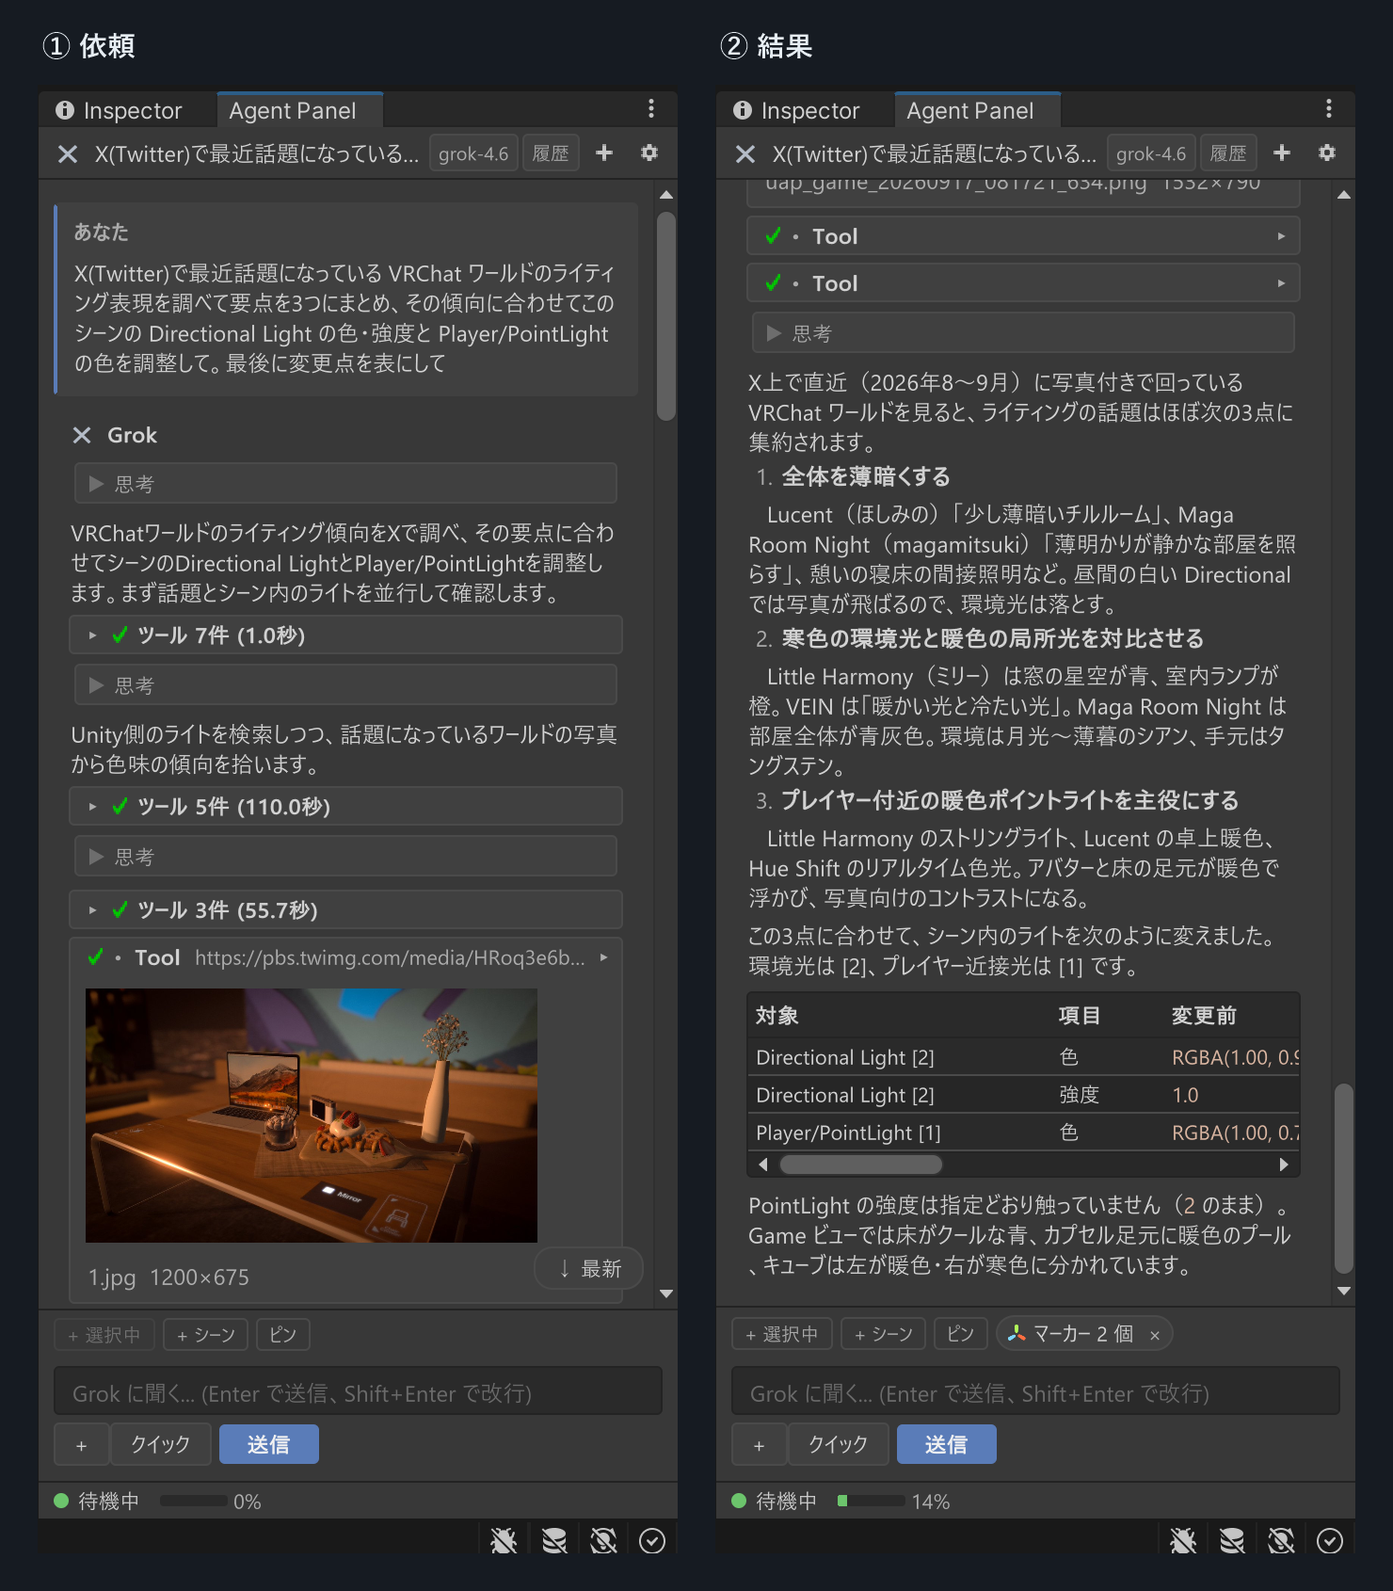
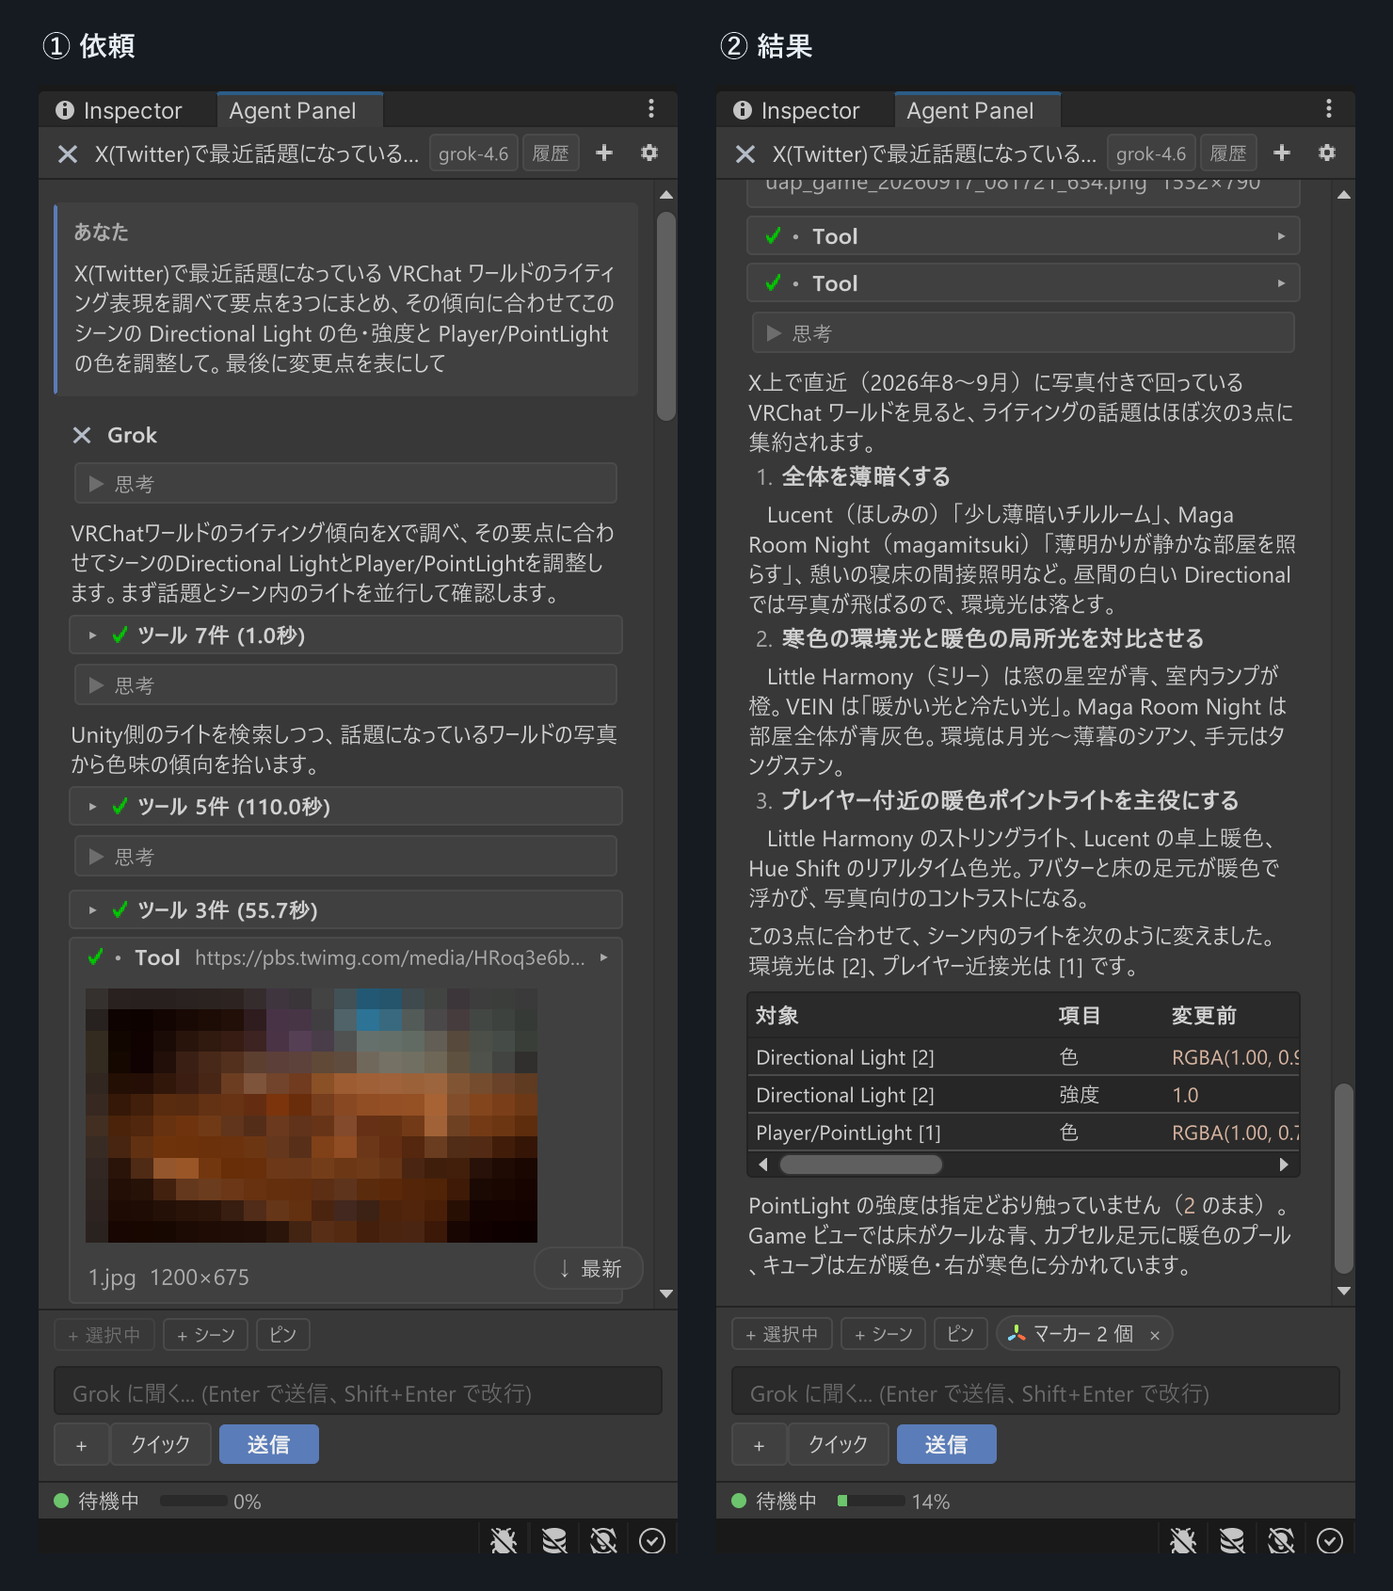
Docs: sync from 20df6c6

Changed region(s): [[0.0622, 0.6154, 0.4041, 0.8]]

diff --git a/docs/design-notes/2026-09-17-account-card-agent-picker-and-acp-init.md b/docs/design-notes/2026-09-17-account-card-agent-picker-and-acp-init.md
@@ -1,0 +1,99 @@
+# アカウントカードにエージェント選択を移す / ACP 合成 init の apiKeySource 誤読
+
+日付: 2026-09-17 / 対象: v0.54.6 / 関連: 2026-09-10-acp-backends.md(4)、
+2026-09-10-claude-api-key-auth-passthrough.md(3)、
+2026-09-10-acp-auth-guidance-and-method-display.md(4)、2026-08-01-init-message-retention.md
+
+## 1. 現象
+
+ユーザー報告(スクリーンショット付き):
+
+> 「APIキー認証」を「サブスクリプションのみ」にしているのに、アカウントカードに
+> 「APIキー(acp)で接続中です -- 利用料はサブスクリプションではなくこのキーに課金されます」
+> と出る。
+> また、エージェントの切り替えが CLI カード、サインインがアカウントカードに分かれていて
+> わかりづらい。
+
+## 2. バグ: 「APIキー(acp)で接続中です」
+
+### 2.1 根本原因
+
+アカウントカードの Claude Code 分岐は `AgentHub.LastKnownInitMessage.ApiKeySource` を
+読み、`none`/空以外なら「APIキー({0})で接続中」を出す(`SettingsView.IsApiKeyAuth`)。
+これは Claude Code CLI の system/init が `apiKeySource` に `ANTHROPIC_API_KEY` /
+`apiKeyHelper` / `none` を報告する前提の表示。
+
+一方 ACP ブリッジ(`AcpProtocolBridge`)は、パネルの既存経路に乗せるために system/init を
+**合成**しており、そこで `apiKeySource` に `"acp"` という目印値を入れていた。
+ACP の認証方式は `AcpAuthMethodId/Name` で別に扱うので、ACP 分岐ではこの値は読まれない。
+
+問題は `_lastKnownInitMessage` が **バックエンドを切り替えても保持される**こと
+(2026-08-01-init-message-retention.md: 再開接続は system/init を再送しないことがあるため
+意図的に残す)。ACP エージェントから Claude Code に戻すと、設定上は Claude Code なので
+アカウントカードは Claude 分岐(ドロップダウン表示)になるが、`LastKnownInitMessage` は
+まだ ACP の合成 init。`ApiKeySource == "acp"` は `none` ではないので「APIキー(acp)」が出る。
+Claude の init が届くまで(再接続直後や、再開接続で init が来ないケースでは長く)残る。
+
+### 2.2 修正
+
+- `SystemInitMessage` に `AcpBackend`(合成 init だけが持つ `acp_backend` を読む)と
+  `IsAcpSynthesized` を追加。
+- `SettingsView.IsApiKeyAuth` は `IsAcpSynthesized` な init を無条件に false にする。
+  ガードは `acp_backend` に基づく(下の `"none"` 化に依存しない)。
+- `AcpProtocolBridge` の合成 init は `apiKeySource` を `"none"` にする。`"acp"` を読む
+  箇所は他に無かった。ACP の目印は `acp_backend` のまま。
+- 会話ログ側の一回限りの注記 `AppendApiKeyAuthNoteIfNeeded` は元から `IsClaudeBackend`
+  でガードされていたので影響なし。
+
+## 3. UI: エージェント選択をアカウントカードへ
+
+### 3.1 なぜ分かれていたか
+
+2026-09-10-acp-backends.md(4)で、エージェント選択は「実行ファイル/コマンド」と同じ
+CLI カードに置いた(選択によって表示するフィールドが変わるため)。サインインはその後
+2026-09-10-in-panel-install-and-sign-in.md でアカウントカードに足した。結果として:
+
+- CLI カードは**既定で折りたたみ**なので、エージェントの切り替え口が見つけにくい。
+- アカウントカードは「ログイン済みです」と言うが、**どのエージェントの**状態か書いて
+  いない。ACP を選ぶとカードの中身が丸ごと入れ替わるのに、その理由が画面上に無い。
+
+### 3.2 変更
+
+- **エージェント選択(`_backendField`)をアカウントカードの先頭行へ移す。** カード名を
+  「エージェントとアカウント」(en: "Agent & account")に変える。ドロップダウンの下に
+  「次回の再接続時に適用されます。下のサインイン状態はこのエージェントのものです。」の
+  1 行(既存のツールチップはホバー側に残す)。
+- **並び順**を アカウント → CLI → 診断 → Pro の更新 → 情報 にする。選ぶ → サインインを
+  確認する → 起動の仕組み(パス/コマンド/インストール)の順で、新規ユーザーが出会う順に
+  合わせる。`BuildAccountSection` が `BuildCliSection` より先に走る必要がある(下の行が
+  ドロップダウンの値を読む)。
+- **CLI カードの先頭に「{エージェント} の起動設定です。エージェントの切り替えは上の
+  『エージェントとアカウント』カードで行います。」**を出し、`RefreshBackendGroups` で
+  追随させる。カードを開いたときに「実行ファイルのパス」から始まって主語が無い状態を
+  避ける。
+- 挙動(次回再接続で適用、`OnBackendChanged` の処理、ACP 用フィールド群の切り替え)は
+  変えない。折りたたみキー `cli` も不変。
+
+### 3.3 見送ったもの
+
+- CLI カードをアカウントカードに統合する案: 1 枚が長くなり、既定で畳んでおきたい
+  技術的フィールド(引数、認証方式 ID、インストール)まで常時見える。ドロップダウンだけ
+  を移し、CLI カードは主語の 1 行で結び直す方が小さい。
+- アカウントカードに「現在のエージェント: X」の読み取り専用行を置き、切り替え口は
+  CLI カードに残す案: 表示が二重になり、なぜそこで変えられないのかが増える。
+
+## 4. 検証
+
+- `SettingsViewLogicTests.IsApiKeyAuth_IgnoresAnInitAnAcpBridgeSynthesized`:
+  `acp_backend` 付き init は `apiKeySource` が何でも false、Claude の init は従来どおり。
+- `SettingsViewLogicTests.SystemInitMessage_AcpBackend_ParsesAndFlagsSynthesizedInit`。
+- `L10nTests` の 110 文字上限に新ヒント 2 本(en/ja)が収まること。
+- 手動: Codex に切り替え → Claude Code に戻す → アカウントカードに「APIキー(acp)」が
+  出ないこと。設定を開いてアカウントカードの先頭にエージェント選択があり、CLI カードを
+  開くと先頭行にエージェント名が出ること。
+
+## 5. 文言の追随
+
+ユーザー向け文言の「設定 > アカウント」「設定のアカウントカード」(en: "Settings >
+Account" / "Settings Account card")を新しいカード名に置き換えた(両言語 6 箇所ずつ)。
+`docs/USER-GUIDE.md` の ACP 切り替え手順も同様。

diff --git a/docs/design-notes/2026-09-17-agent-card-merge.md b/docs/design-notes/2026-09-17-agent-card-merge.md
@@ -1,0 +1,89 @@
+# 設定の CLI カードとアカウントカードを「エージェント」カードに統合する
+
+日付: 2026-09-17 / 対象: v0.54.7 / 関連: 2026-09-17-account-card-agent-picker-and-acp-init.md、
+2026-09-10-acp-backends.md(4)、2026-09-10-in-panel-install-and-sign-in.md、
+2026-09-10-claude-api-key-auth-passthrough.md、2026-08-23-phase2-batch-c-settings-ia-and-io.md
+
+## 1. 経緯
+
+v0.54.7 でエージェント選択を CLI カードからアカウントカードへ移し「エージェントとアカウント」
+と改名した。その直後のユーザー指摘:
+
+> CLI カードの必要性を再評価。名前から何をしたいカードなのかわかりづらい。
+
+再評価の結論は「CLI カードを独立させる理由が無い」。中身(実行ファイルのパス / コマンド・
+引数 / 認証メソッド ID / 再検出・再接続 / 解決結果 / インストール)はすべて「選んだ
+エージェントを起動できる状態にする」ための項目で、選択とサインインと同じ一連の流れ。
+「CLI」は実装の語彙で、ユーザーの探し方(「エージェントを変えたい」「動かない」「ログイン
+したい」)と一致しない。3 枚(CLI / 診断 / アカウント)に散っていること自体が分かりづらさの
+原因なので、名前の付け替えでは解決しない。
+
+## 2. 新しい 1 枚: 「エージェント」カード
+
+「接続とアカウント」グループの先頭。常時展開(旧 CLI カードの折りたたみキー `cli` は廃止)。
+上から:
+
+1. **エージェント**(ドロップダウン)+「次回の再接続時に適用されます。以下はすべてこの
+   エージェントについての表示と設定です。」
+2. **解決結果 / 見つかりません**(旧 CLI カードの行)と、未検出のときだけ出る
+   **インストール**ボタン(既存の挙動)。
+3. **サインイン状態**(ログイン中 / 未ログイン / 環境変数トークン / API キー課金の注記 /
+   ACP の方式表示)。
+4. **サインイン方式**(§3)。
+5. サインイン操作: Claude Code は ログイン / ログアウト とログインサブカード、ACP は
+   サインイン / キャンセル / ブラウザで開く / コピー と URL・出力行。
+6. **詳細設定(実行ファイル / コマンド)** フォールドアウト(既定で閉): Claude Code は
+   実行ファイルのパス、ACP はコマンド / 引数 / ターミナルでのサインイン代替 / 制限事項。
+   `RefreshCliStatus` が「見つかりません」を出すときは自動で開く(閉じる側には触らない)。
+7. **再接続**ボタン 1 個(§4)。
+
+「診断」カードは残すが、中身が分かる **「CLI の出力(stderr)」** に改名。
+
+## 3. 「サインイン方式」: Claude 専用項目をやめる
+
+旧「APIキー認証」(Claude Code のみ表示)の実体は `ClaudeCliProcess.ComputeEnvVarsToRemove`
+で `ANTHROPIC_API_KEY` を環境から取り除くかどうか。ACP エージェントはこの変数を見ない代わりに、
+ACP の `authenticate` メソッド ID(旧 CLI カードの「認証メソッド ID」)で方式を選ぶ。
+つまり両者は同じ問い(「どの方式でサインインするか」)への、エージェントごとの答え。
+
+そこで 1 つの行「サインイン方式」にし、エージェントで形だけ変える(`BuildSignInMethodFields`):
+
+- Claude Code: ドロップダウン「自動(CLI に任せる)」/「サブスクリプションのみ」。
+  ヒント「『自動』は環境の ANTHROPIC_API_KEY を優先(従量課金)。『サブスクリプションのみ』は
+  それを取り除きます。」
+- ACP: テキスト欄(認証メソッド ID)。ヒント「ACP の認証メソッド ID。空欄ならエージェントが
+  最初に提示するサインイン方法を使います。」
+
+設定値(`claudeAuth` / `acpAuthMethod`)、次回スポーンで適用、`SettingsChangeDetector` は不変。
+旧実装では ACP 選択時に `_claudeAuthField` だけ隠してヒント行が残っていたが、グループ単位で
+切り替えるようにしたのでそれも直る。
+
+## 4. ボタンの整理
+
+- **再検出** を削除。パス欄の変更で自動的に再解決される(`RefreshCliStatusIfPathChanged`)し、
+  再接続も `RefreshCliStatus` を呼ぶ。
+- **今すぐ再接続**(旧 CLI カード)と **再接続**(旧アカウントカードの ACP 用)を 1 個の
+  **再接続** に統合(`OnAgentReconnectClicked`)。Claude Code では従来の `AgentHub.Reconnect`
+  (セッションを再開)、ACP では従来の `RecoverConnection`(ハンドシェイクをやり直し、必要なら
+  再サインイン、認証状態の再照会)。設定変更バナーの「今すぐ再接続」は不変。
+
+## 5. 影響範囲
+
+- `SettingsView`: `BuildCliSection` / `BuildAccountSection` → `BuildAgentSection` +
+  `BuildAgentAdvancedFoldout` + `BuildSignInMethodFields`。`RefreshCliStatus` / `RefreshBackendGroups` /
+  `RefreshAccountSection` はフィールドをそのまま使う。折りたたみキー `cli` 廃止。
+- 文言: `SettingsSectionAgent`(旧 `SettingsSectionAccount`)、`SettingsSignInMethodLabel`、
+  `SettingsAgentAdvancedFoldout`、`SettingsReconnectButton` を追加。`SettingsSectionCli`、
+  `SettingsRedetectButton`、`SettingsClaudeAuthLabel`、`SettingsAcpAuthMethodLabel`、
+  `SettingsAccountAcpSignInButton`、`SettingsCliForAgentFmt` を削除。「設定 > CLI」
+  「設定 > エージェントとアカウント」の参照は「設定 > エージェント」に更新。
+- テスト: `SettingsViewSectionDisclosureTests` の `cli` 参照を `uapops` に置換。
+- ドキュメント: `docs/USER-GUIDE.md`、`Documentation~/index.md`。
+
+## 6. 検証
+
+- 手動: Claude Code で「サインイン方式」がドロップダウン、Codex に切り替えるとテキスト欄に
+  なり、ヒント行も入れ替わること。パス欄を壊すと「見つかりません」と同時に詳細設定が開き、
+  インストールボタンが出ること。再接続ボタンが両バックエンドで動くこと。
+- EditMode: `SettingsViewSectionDisclosureTests`(cli 廃止後も残り 6 枚の折りたたみが
+  既定で閉じる)、`L10nTests` のヒント 110 文字上限。

diff --git a/docs/RELEASING.md b/docs/RELEASING.md
@@ -328,3 +328,4 @@ Core(`vX.Y.Z`)の一覧。Pro のタグは `pro-vX.Y.Z` で、この表には積
 | v0.54.8 | Codex(codex-acp)で MCP ツールが返した画像がツールカードに埋め込み表示されず、base64 入りの約 500 KB の JSON 文字列が結果テキストとして流れていた件の修正(`docs/design-notes/2026-09-17-acp-mcp-rawoutput-images.md`)。codex-acp は MCP の結果を `content` ではなく `rawOutput` = `{"result":{"content":[…]},"error":null}` で渡し、ACP ブリッジはそれを丸ごと文字列化していた。`result.content` が配列なら `content` 経路と同じく text は結果テキスト、image は埋め込み画像(1 結果 4 枚・base64 8 MiB まで、超過分は `[image]`)に訳す。他の形の `rawOutput` は従来どおり。テスト 9 本追加(2026-09-17) |
 | v0.55.0 | `uap_editor_execute_menu "File/Save"` で Editor が固まった件の修正と `uap_scene_save` 追加(`docs/design-notes/2026-09-17-modal-menu-and-base64-scan.md`)。原因は独立した 2 つ: (A) 未保存シーンの `File/Save` がネイティブモーダル「Save Scene」を開き、人が閉じるまで main thread が Win32 モーダルループに留まる(実測 110 s で tick 0 回、実機 288 s)。(B) 直後のスクリーンショット結果(498 KB の base64)を Codex が 1 本の JSON 文字列で渡し、`ToolResultImages` のパス検出正規表現が O(n²) で `EditorUpdatePump.OnEditorUpdate` を占有(再現 431 s、実機 256 s)。対策: モーダルを開くと実測したメニュー 7 項目を実行前に拒否(`UapMenuDialogPolicy`)、ダイアログを出さない `uap_scene_save` を新設、拒否した `File/Open Scene` の代替として `uap_scene_open`(single は未保存シーンがあると拒否、`discardUnsaved` / `additive` で回避)も追加、サードパーティのモーダルはタイムアウト文でダイアログ名を告げる(`UapNativeModalProbe`、Windows)、パス検出を拡張子起点の窓走査で線形化(同入力 1 ms)。テスト 4 ファイル追加・2 ファイル更新(2026-09-17) |
 | v0.55.1 | エージェント自身のツール呼び出しが出した Console エラーで「修正を依頼」チップが出ていた件の修正(`docs/design-notes/2026-09-17-tool-caused-console-errors.md`)。実機の Codex が `uap_editor_execute_menu` に存在しないメニュー(`GameObject/Duplicate`)を渡すと、ツールは `found:false` を返すのに Unity 自身が Error を出し、チップがセッション・バックエンドをまたいで残っていた。UapOps ツールの実行中にメインスレッドで出た Error はその呼び出しに帰属させ、チップには積まずツール結果の末尾(`Unity Console errors logged during this call:`、最大 5 行)でエージェントに返す。別スレッドのエラーと呼び出し後に再発したエラーは従来どおり。`uap_editor_execute_menu` は実行前に `Menu.MenuItemExists` で存在を確認し、この Error 自体を出さない。テスト 7 本追加・2 本更新(2026-09-17) |
+| v0.55.2 | 設定の CLI カードとアカウントカードを 1 枚の「エージェント」カードに統合(`docs/design-notes/2026-09-17-account-card-agent-picker-and-acp-init.md` で先にエージェント選択を折りたたみの CLI カードから出し、`2026-09-17-agent-card-merge.md` で統合)。上から エージェント選択 → 解決結果とインストール → サインイン状態 → サインイン方式 → サインイン操作 → 詳細設定(実行ファイル / コマンド。未検出のとき自動で開く)→ 再接続 の順。「再検出」「今すぐ再接続」「再接続(ACP)」を 1 個の「再接続」に統合し、「診断」カードを「CLI の出力(stderr)」に改名。Claude 専用だった「APIキー認証」と ACP 専用だった「認証メソッド ID」を、エージェントで形が変わる 1 行「サインイン方式」にまとめた。折りたたみキー `cli` を廃止(テスト更新)。あわせて、ACP エージェントから Claude Code に戻した直後にアカウントカードが「APIキー(acp)で接続中」と誤表示していた件を修正: ACP ブリッジが合成する system/init の `apiKeySource: "acp"` を Claude 側の判定(`IsApiKeyAuth`)が読んでいた。`acp_backend` 付きの init は判定から除外し、ブリッジ側も `"none"` を送る。テスト 2 本追加。main が別内容の v0.54.7 を先に出したため、このブランチの v0.54.7 + v0.54.8 を v0.55.2 に再カット(2026-09-17) |

diff --git a/docs/design-notes/2026-09-17-agent-screenshots.md b/docs/design-notes/2026-09-17-agent-screenshots.md
@@ -34,6 +34,14 @@ Unity 操作と地続きで頼める**ことを示す宣伝用スクリーンシ
 `*-panels.png` = 依頼と結果のパネル切り抜きを横並び。背景と文字色は `BRAND.md` の
 暗背景 `#161B22` / `#E6EDF3`。
 
+**第三者の画像の扱い**: Grok の X 検索は、投稿に添付された写真(第三者の著作物)を
+ツール結果として取得し、パネルがサムネイル表示する。公開する画像ではその写真の
+領域だけを 24px ブロックのモザイクにする(`grok-x-search-with-request.png` と
+`grok-x-search-panels.png` の依頼側パネル、(91,1050) から 480x270)。「X から画像を
+取ってきた」ことは伝わり、中身は判別できない。ワールド名・作者名は公開情報の
+引用なのでそのまま載せる(2026-09-17 ユーザー判断)。今後 X 検索の画面を撮るときも
+同じ運用にする。
+
 **合成について**: `codex-common-task.png` と `grok-imagegen-texture.png` は、
 最初の撮影に「修正を依頼」チップ(原因と修正プランは
 `2026-09-17-tool-caused-console-errors.md`)が写り込んだため、Console を
